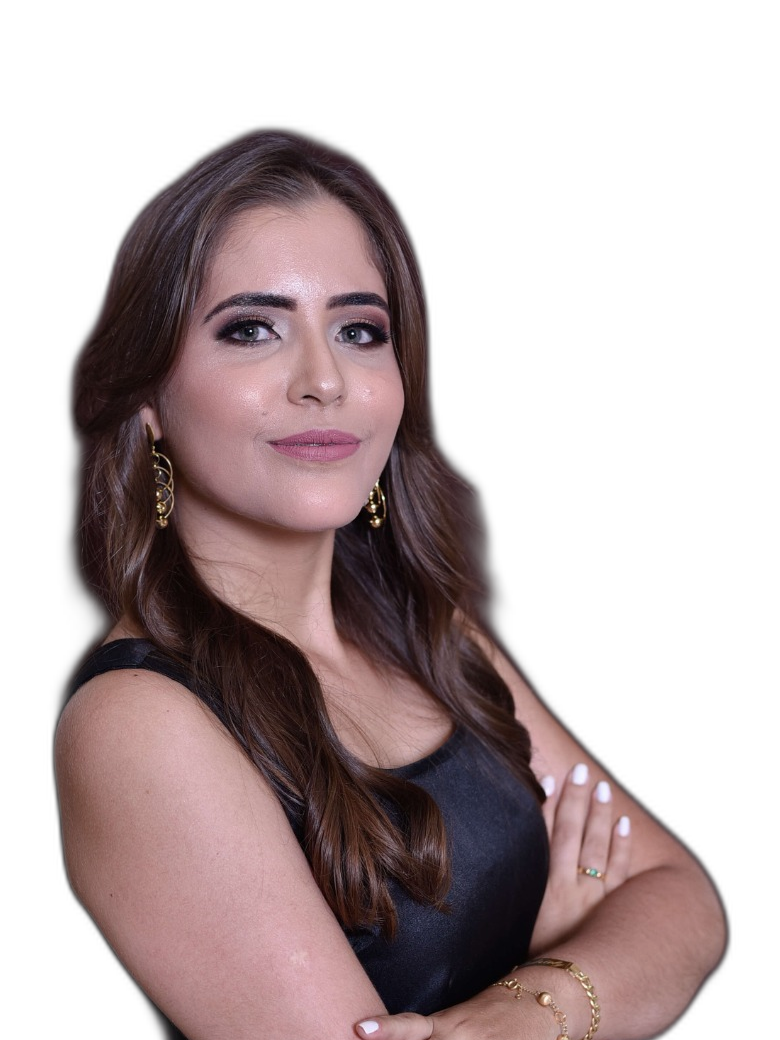
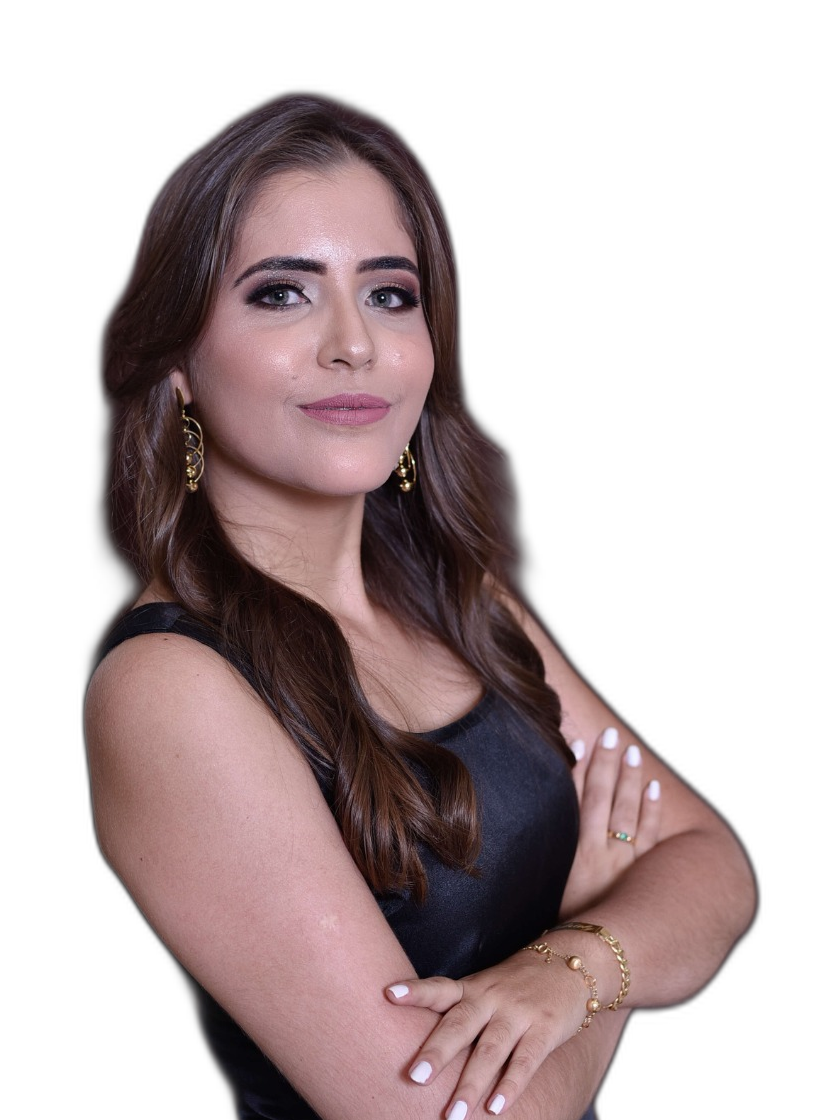
fix(modelo3): foto Sobre reenquadrada (cabeca mais alta) + watermark GN restaurado

diff --git a/modelo3.html b/modelo3.html
@@ -91,8 +91,8 @@
 
   .about-top{display:grid;grid-template-columns:215px 1fr;gap:28px;align-items:start}
   .about-photo{position:relative;background:var(--vinho);aspect-ratio:3/4;overflow:hidden}
-  .about-photo img{position:absolute;inset:0;width:100%;height:100%;object-fit:cover;object-position:center top}
-  .about-photo .wm{position:absolute;top:10%;left:8%;width:120px;opacity:.16;z-index:1}
+  .about-photo img:not(.wm){position:absolute;inset:0;width:100%;height:100%;object-fit:cover;object-position:center top;z-index:2}
+  .about-photo .wm{position:absolute;top:10%;left:8%;width:120px;height:auto;opacity:.16;z-index:1}
   .about-photo::after{content:"";position:absolute;top:12px;left:12px;right:12px;bottom:12px;border:1px solid rgba(230,207,150,.5);z-index:2;pointer-events:none}
   .about-text h2{color:var(--vinho);font-size:2.2rem;margin:12px 0 16px}
   .about-text p{color:var(--txt-dark-mut);font-size:.98rem}